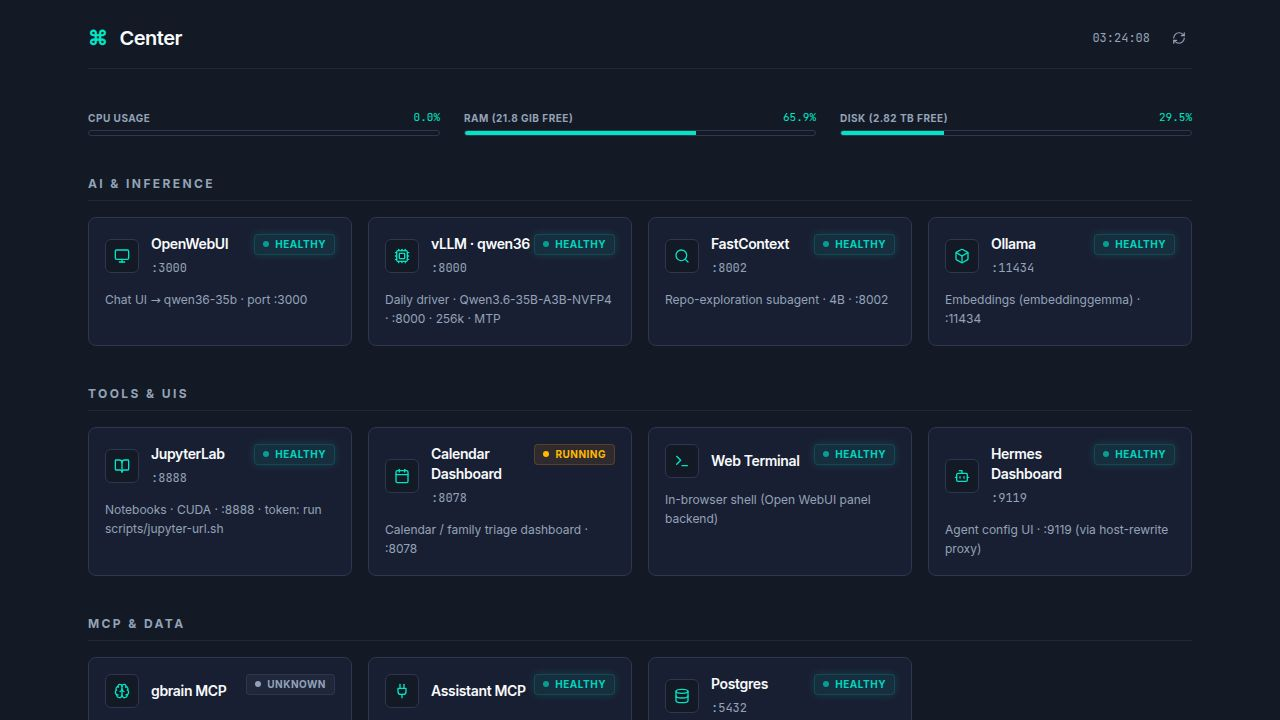
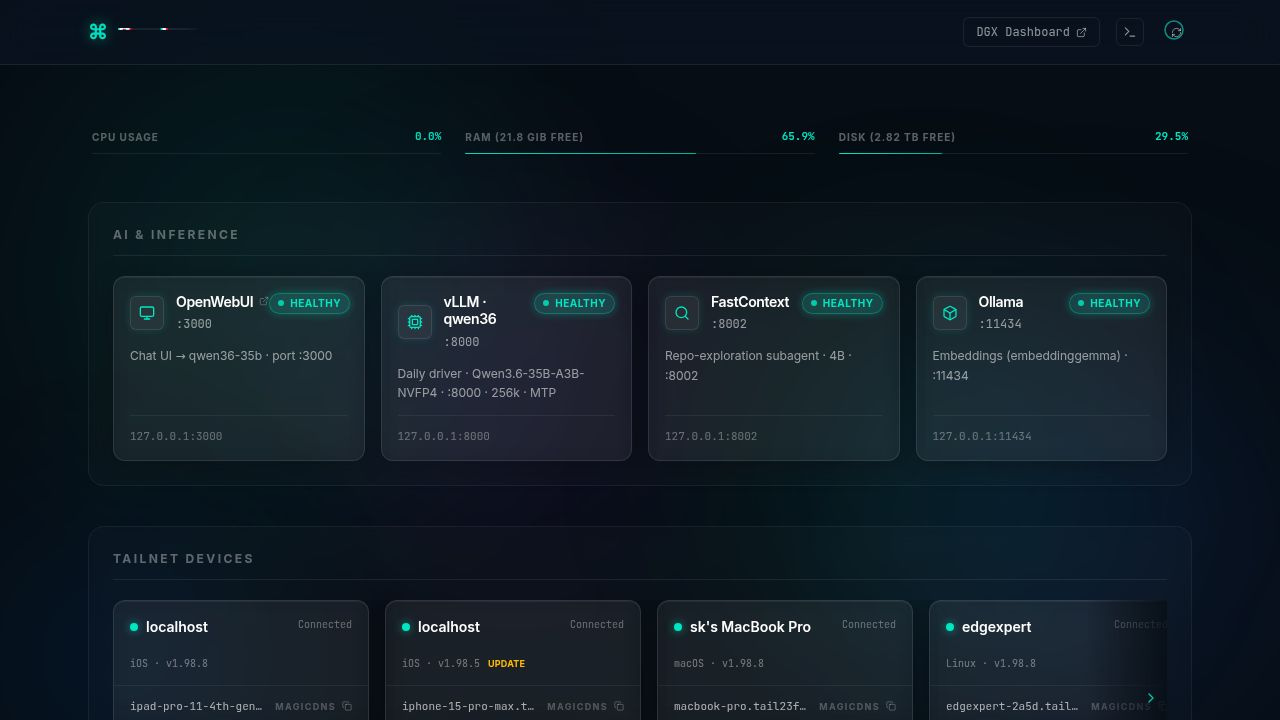
Fix countdown timer from causing rendering errors
Correctly implement the countdown timer by moving the refresh logic out of the state updater function to prevent React render errors.

Replit-Commit-Author: Agent
Replit-Commit-Session-Id: 9516396a-fe30-4c1e-a978-9181f275954e
Replit-Commit-Checkpoint-Type: full_checkpoint
Replit-Commit-Event-Id: 0a49ba09-cf1d-4889-8154-46db62932327
Replit-Commit-Screenshot-Url: https://storage.googleapis.com/screenshot-production-us-central1/449b961b-df43-4671-b6fa-a80fd2a55073/9516396a-fe30-4c1e-a978-9181f275954e/iP66uAK
Replit-Helium-Checkpoint-Created: true

diff --git a/artifacts/cmd-center/src/components/Dashboard.tsx b/artifacts/cmd-center/src/components/Dashboard.tsx
@@ -333,11 +333,14 @@ function CountdownRefresh({ onRefresh }: { onRefresh: () => void }) {
   }, []);
 
   useEffect(() => {
+    let count = COUNTDOWN_SECS;
     const id = setInterval(() => {
-      setSecondsLeft(s => {
-        if (s <= 1) { doRefresh(); return COUNTDOWN_SECS; }
-        return s - 1;
-      });
+      count -= 1;
+      if (count <= 0) {
+        count = COUNTDOWN_SECS;
+        doRefresh();
+      }
+      setSecondsLeft(count);
     }, 1000);
     return () => clearInterval(id);
   }, [doRefresh]);